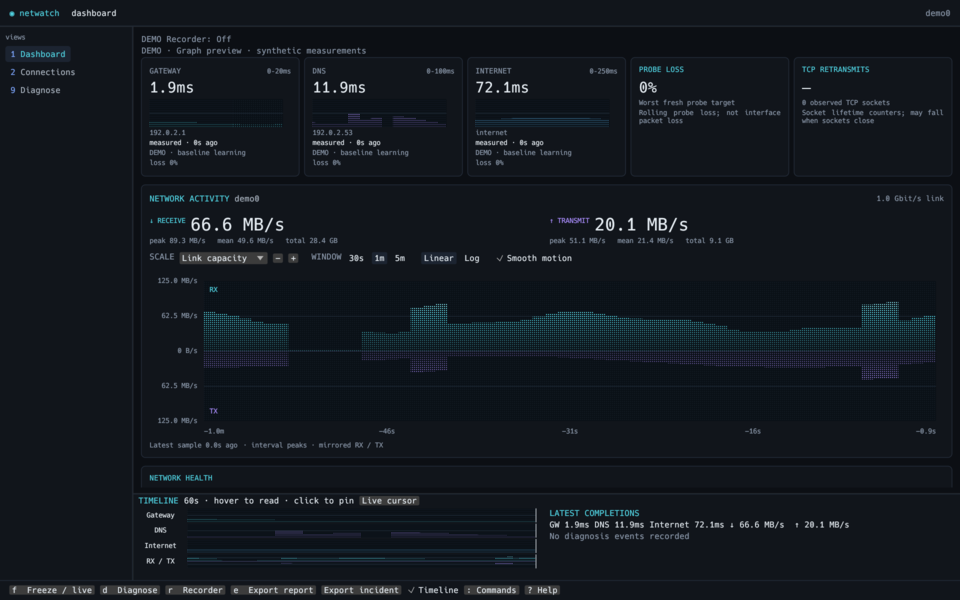
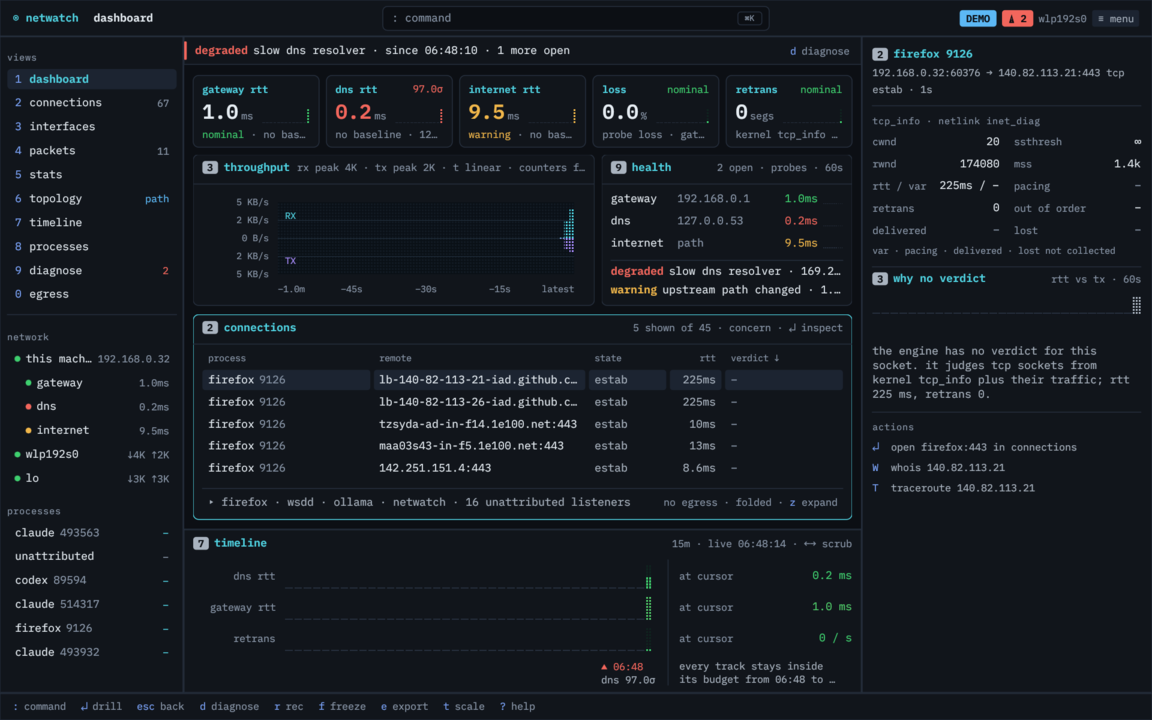
Rewrite README, refresh screenshots, add MIT licence
Claude-Session: https://claude.ai/code/session_013PBFcyeupB6XZ6WnnqAaG8

diff --git a/README.md b/README.md
@@ -1,34 +1,286 @@
-# Netwatch Desktop
+# netwatch desktop
 
-Native egui front end over the Netwatch runtime, collectors, diagnose engine and egress linter. It implements the Workbench shell from the desktop design spec: title bar · navigator · status strip · content + inspector · timeline dock · footer, with sheets over the top and lite and dense views.
+A native desktop app for [netwatch](https://github.com/matthart1983/netwatch). It runs the same collectors, diagnose engine and egress linter as the terminal tool, in a window, with a mouse, a command palette and room to show more than 80 columns can hold.
 
-Requires the sibling `../netwatch` checkout and the same platform capture/build dependencies as Netwatch.
+![Dashboard with the demo scenario](docs/screenshots/dashboard.png)
+
+It is not a remote dashboard. There is no server and no second engine. The app links the `netwatch` crate, starts its runtime on a background thread, and draws what that runtime sees on this machine.
+
+## Contents
+
+- [What you get](#what-you-get)
+- [Building](#building)
+- [Running](#running)
+- [Permissions](#permissions)
+- [The window](#the-window)
+- [Keys](#keys)
+- [The ten tabs](#the-ten-tabs)
+- [Views: full, lite, dense](#views-full-lite-dense)
+- [Sheets](#sheets)
+- [Themes and graphs](#themes-and-graphs)
+- [Settings and saved state](#settings-and-saved-state)
+- [How it is built](#how-it-is-built)
+- [Development](#development)
+- [Known gaps](#known-gaps)
+- [License](#license)
+
+## What you get
+
+- Ten tabs: dashboard, connections, interfaces, packets, stats, topology, timeline, processes, diagnose and egress.
+- Every socket with its owning process and the diagnose engine's verdict (bufferbloat, zero-window, retrans-burst and so on), grouped by process or host, with kernel `tcp_info` in a side inspector.
+- A packet list with a display filter, layered decode, hex, and a stream inspector. Export any filtered view to pcap.
+- Diagnose laid out as issue, probable cause, remediation and the condition that closes it, with a chronology of what happened in what order.
+- Egress policy: learned destinations per process, drift, and the TOML diff before anything is written.
+- A flight recorder you can arm, freeze and export as an incident bundle.
+- Three views of the same running backend. Full is the workbench, lite is a small always-on-top window, dense is four boxes packed with numbers.
+- Eight themes, a btop-style dot graph look (or solid bars), and a command palette that prints the key for everything it runs.
+
+## Building
+
+The app depends on the netwatch crate by path, so check both repositories out side by side:
 
 ```sh
-cargo run                         # live runtime
-cargo run -- --demo               # live runtime + the Diagnose demo scenario and a seeded capture
-cargo run -- --tab packets        # start on a tab (any of the ten names)
-cargo run -- --view lite|dense
-cargo run -- --sheet settings     # settings · recorder · firstrun · palette · help
-cargo run -- --theme paper        # dark paper terminal ocean solarized dracula nord sky
-cargo run -- --app-chrome         # app-drawn window chrome (three dots, edge resize)
-cargo run -- --check-runtime
-cargo run -- --graph-preview      # synthetic snapshot, no collectors
-cargo test
+git clone https://github.com/matthart1983/netwatch
+git clone https://github.com/matthart1983/netwatch-desktop
+cd netwatch-desktop
+cargo build --release
 ```
 
-## Screens
+You need a recent stable Rust toolchain and the same system libraries netwatch needs, plus what eframe needs to open a window.
 
-`1` dashboard · `2` connections · `3` interfaces · `4` packets + decode · `5` stats · `6` topology · `7` timeline · `8` processes · `9` diagnose · `0` egress. Each tab's keys are in its footer; clicking a hint does the same as pressing it.
+On Fedora:
 
-Global keys: `1–9 0` tabs · `:` or ctrl-K palette (`/` filter, `>` jump, `@` host or process) · `↵` drill / `esc` back (breadcrumb) · `p` or space pause the display · `R` arm, `F` freeze, `E` recorder & export sheet · `V` cycle full → lite → dense, `L` lite · `,` settings · `?` help · `t` graph scale on graph tabs, otherwise theme · `q` quit. Ctrl `+` / `−` zooms the interface (dense: text size).
+```sh
+sudo dnf install libpcap-devel libxkbcommon-devel wayland-devel mesa-libGL-devel
+```
 
-Every chart draws in one look: btop dot cells or solid bars, with or without the magnitude fade. Toggle it from **☰ menu** in the title bar (also in dense), the palette (`graphs: switch to …`), or the settings sheet; it is saved as `graph_style` / `graph_fade` in the netwatch config.
+On Debian or Ubuntu:
 
-Clicking a navigator node (gateway, dns, an interface, a process) filters the current tab and adds it to the breadcrumb. Tab, view, theme, zoom, dock height, per-tab control choices and the lite window persist in `~/.config/netwatch/desktop.toml` (`NETWATCH_DESKTOP_PREFS` overrides the path; `--screenshot` and `--graph-preview` runs neither read nor write it).
+```sh
+sudo apt install libpcap-dev libxkbcommon-dev libwayland-dev libgl1-mesa-dev
+```
 
-Pause pins the displayed snapshot; collectors, recording and exports continue. Writes (exports, policy promotions, config saves) report their path in the footer toast. Capture without permission degrades to interface counters and kernel TCP metrics, and the packets tab shows the grant command for the running executable. Active health checks send network probes.
+On macOS, the Xcode command line tools are enough.
 
-See [design decisions and remaining scope](docs/DESIGN-NOTES.md), [graphs](docs/GRAPHS.md) and [dense view](docs/DENSE.md).
+This build turns off netwatch's eBPF attribution (`default-features = false`), so there is no kernel-capability dependency beyond packet capture.
 
-Fonts: IBM Plex Mono/Sans and Adwaita Mono (symbol fallback), bundled under `assets/fonts` with their OFL licences.
+## Running
+
+```sh
+./target/release/netwatch-desktop
+```
+
+Useful flags:
+
+| flag | what it does |
+|---|---|
+| `--demo` | Runs the real runtime with the diagnose demo scenario and a seeded packet capture. Good for seeing every screen populated. |
+| `--tab <name>` | Opens on a tab: `dashboard`, `connections`, `interfaces`, `packets`, `stats`, `topology`, `timeline`, `processes`, `diagnose`, `egress`. |
+| `--view full\|lite\|dense` | Starts in a view. |
+| `--zoom 1-4` | In dense view, opens with one box zoomed. |
+| `--sheet <name>` | Opens a sheet: `settings`, `recorder`, `firstrun`, `palette`, `help`. |
+| `--theme <name>` | Starts with a palette (see [themes](#themes-and-graphs)). |
+| `--window-size WxH` | Sets the initial window size in logical pixels. |
+| `--app-chrome` | Draws the app's own title bar and window controls instead of the system's. |
+| `--graph-preview` | Runs on a synthetic snapshot with no collectors. Used for graph and layout checks. |
+| `--check-runtime` | Starts the runtime headless, prints interface, capture, diagnose coverage, socket and PID counts and the capability report, then exits. |
+| `--screenshot <path>` | Saves a PNG of the window after about three seconds and exits. Runs with this flag neither read nor write saved layout. |
+
+`--check-runtime` is the quickest way to find out what the app can see on a machine:
+
+```
+interface: wlp192s0
+counters only · Capture failed: libpcap error: ... CAP_NET_RAW may be required
+no visible findings · 12/25 rule inputs available · 0 learning · 13 unavailable
+107 connections · 78 with a pid · 61 kernel TCP records
+```
+
+## Permissions
+
+Without packet capture the app still works. You get interface counters, the socket table with process attribution for processes your user can inspect, kernel TCP metrics, and active probes. Per-flow rates, the packet list, TLS and DNS decode, and handshake timing need capture.
+
+On Linux, give the binary the raw-socket capability once. It attaches to the file, so run it again after every rebuild:
+
+```sh
+sudo setcap cap_net_raw+eip ./target/release/netwatch-desktop
+```
+
+The first-run sheet shows what is ready, what needs a grant, and the exact command for the running executable. It opens on first launch and again if a capability that was ready goes missing. Press `↵` to continue without capture.
+
+netwatch confines its collector workers with Landlock. Socket ownership is read by a small thread that starts before confinement and only reads kernel `/proc` tables, so attribution works with the sandbox on. Sockets owned by other users' processes (root daemons) stay unattributed unless you run with more privilege.
+
+Active health checks send DNS, reachability and STUN probes. Collection and analysis stay on the machine. Online GeoIP lookups and AI insights are off by default and say what they send before they send it.
+
+## The window
+
+![Connections grouped by process](docs/screenshots/connections.png)
+
+Every tab shares one frame:
+
+- The title bar has the breadcrumb (for example `connections › claude:443`), a command field that opens the palette, chips for recorder state, pause, open issues and egress drift, the capture interface, and the menu.
+- The navigator on the left lists the ten tabs with live badges (socket count, packet rate, open issue count, drift). Under it is a network tree (this machine, gateway, dns, internet, interfaces) and the top processes. Clicking a node filters the current tab and adds it to the breadcrumb. `esc` removes it.
+- A status strip appears when an issue is open. It reads from the same issue list as the diagnose tab and disappears when things are healthy.
+- The inspector on the right follows the selection on tabs that have one (dashboard, connections, packets, processes, egress).
+- The timeline dock sits under the dashboard, connections and diagnose.
+- The footer lists the keys the current tab responds to. Every hint is clickable and does the same thing as the key. Results of writes (exports, policy changes, config saves) show at the right with their path.
+
+Below 1180 pixels wide the navigator shrinks to a rail of digits. Below 1000 the inspector opens as a sheet on `↵`.
+
+## Keys
+
+Global keys work on every tab unless a sheet is open.
+
+| key | action |
+|---|---|
+| `1`-`9`, `0` | switch tab |
+| `:` or `ctrl-k` | command palette |
+| `↵` / `esc` | drill into the selection / back one breadcrumb level |
+| `↑` `↓` | move the selection |
+| `tab` | move focus between panels |
+| `p` or `space` | pause or resume the display (collectors and recording keep running) |
+| `R` | arm or disarm the flight recorder |
+| `F` | freeze the recorder |
+| `E` | open the recorder and export sheet |
+| `V` | cycle full, lite, dense |
+| `L` | lite view |
+| `t` | graph scale on graph tabs, cycles theme elsewhere |
+| `,` | settings |
+| `?` | every key for the current tab |
+| `q` | quit |
+| `ctrl +` / `ctrl -` / `ctrl 0` | zoom the interface (in dense view, the text size) |
+
+## The ten tabs
+
+Each tab lists its own keys in the footer and in `?`.
+
+**1 dashboard.** Five stat cards (gateway, dns and internet rtt, probe loss, retransmits) with sparklines and baselines, the throughput graph, health rows with the engine's findings, the top connections by concern, and the timeline dock. `↵` opens the selected socket in connections, `d` diagnose, `r` recorder, `f` freeze, `e` export the diagnose report, `t` linear or log scale.
+
+**2 connections.** Every socket with process and PID, remote host (resolved when known), application protocol, state, rates, kernel rtt, retransmits, age, verdict and a 60 second rtt history. Control strip for show (concern, all, established, listen, time-wait) and group (none, host, process). Listeners and system daemons with no egress fold into one line (`z`). With grouping on, `space` folds the group under the cursor, `←` `→` fold and unfold, `Z` folds all, and `↑` `↓` also stop on group headers. `/` filters, `s` sorts, `g` groups, `↵` opens packets for the socket, `p` its process, `W` whois, `T` traceroute, `e` exports JSON and CSV.
+
+**3 interfaces.** A table sized to the interface count with role, link speed, rates, a saturation meter, errors, drops and history. The detail panel has addresses, MTU, session counters and a one-line finding. `i` moves capture to the selected interface.
+
+![Packets with decode and stream inspector](docs/screenshots/packets.png)
+
+**4 packets.** The capture strip (live or stopped, ring size, shown, drops, packets per second, BPF filter) and a virtualized list with an expert gutter. The title-bar field becomes the display filter with a live match count, using netwatch's filter grammar (`tcp`, `dns`, `host 10.0.0.1`, `stream 7`, `sni:github`, `decrypted:true`, `and`, `or`, `not`). Under the list is a layered decode (frame, ethernet, ip, tcp or udp, tls or quic, l7) beside hex that highlights the selected layer's bytes. The inspector summarises the stream: 5-tuple, TLS version and ALPN, bytes each way, retransmits, handshake timing. Keys: `c` capture, `b` BPF, `f` follow, `m` bookmark, `n` / `N` next finding, `x` findings only, `h` hex or text, `w` pcap, `j` pivot on JA4, `i` interface.
+
+**5 stats.** Counters for packets, bytes, flows and protocol shares; a protocol breakdown with l7 nested under l4; top processes and remotes; session throughput; and an rtt distribution on a log axis with p50, p90 and p99. `[` `]` window, `u` bytes or frames.
+
+![Topology with a traced path](docs/screenshots/topology.png)
+
+**6 topology.** This machine, gateway, DNS servers and on-link peers; each target's path drawn as chained hop boxes (changed hops highlighted, silent hops dashed); and a hop table with loss, last, p50, p95, jitter and distribution. A hop that doesn't answer while later hops do reads as a silent hop, not loss. `T` traces the target or selected hop, `W` whois, `↵` connections for that host.
+
+**7 timeline.** DNS, gateway and internet rtt, retransmits and throughput on one time axis with a shared cursor, event markers, an events table, and every track's value at the cursor with a plain statement of what moved first. `←` `→` scrub, `t` window (1m to 1h), `k` kinds, `esc` back to live.
+
+**8 processes.** Per-process connections, rates, rtt p50, retransmits and worst verdict. The inspector reads command line, cgroup, user, threads and file descriptors from `/proc`, lists destinations with their egress verdicts, and plots tx against rtt.
+
+![Diagnose](docs/screenshots/diagnose.png)
+
+**9 diagnose.** An engine strip (inputs available, baselines ready or learning, rules live) so an empty issue list can be read correctly. Issues in severity order, the chronology, and a detail pane in report order: evidence, ranked probable causes with each check written out, remediation steps, and the condition that closes the issue. `↵` applies a fix where netwatch can (simulated in demo mode, never applied by a live desktop session), `a` acknowledges, `m` mutes for an hour, `o` writes `report.md`, `y` copies.
+
+**0 egress.** Learned destinations per process as a foldable tree with match type (SNI, IP, ASN, ECH), bytes, first and last seen, activity and policy verdict. The inspector shows what was seen and which rule line would admit it. `a` allows one destination, `d` keeps warning for the re-warn interval, `↵` promotes the selected process, `P` promotes all, `w` writes. The policy diff shows the TOML before it is written. A group- or world-writable policy file is refused with the `chmod` to fix it.
+
+## Views: full, lite, dense
+
+All three views run on the same backend. Switching views never restarts collectors, and the selected socket, pause state and graph settings carry across.
+
+![Dense view](docs/screenshots/dense.png)
+
+**Dense** packs four boxes: mirrored throughput with session totals, interfaces, health with rtt budget meters, and connections with the selected socket's kernel state above the table. `1`-`4` zoom a box. In the connections box `g` cycles grouping, `space` and `Z` fold groups. Text size is separate from the interface zoom (`ctrl +` / `ctrl -`, or the menu). See [docs/DENSE.md](docs/DENSE.md).
+
+<img src="docs/screenshots/lite.png" alt="Lite view" width="540">
+
+**Lite** is a small window (minimum 720 by 420) with throughput, reachability and top talkers. It remembers its size and can stay on top.
+
+## Sheets
+
+Sheets open over the current screen, which keeps updating underneath. `esc` closes any of them.
+
+![Command palette](docs/screenshots/palette.png)
+
+- **Command palette** (`:`). Fuzzy search over commands, tab jumps, packet display filters and entities (hosts and processes). Every row shows the key that does the same thing. `/` narrows to filters, `>` to jumps, `@` to hosts and processes. `tab` completes, `↵` runs. Recent commands come first.
+- **Settings** (`,`). The netwatch `config.toml` grouped as appearance, refresh and capture, GeoIP, alerts, AI insights and security. `←` `→` cycle values, `↵` edits text, `S` saves. Invalid values are marked on the row. Below the settings is the live capability report.
+- **Flight recorder** (`E`). Armed, frozen and exported states with who froze it, packet density over the five-minute ring, the files that go into the bundle, and where they land. `R` arms, `F` freezes, `E` exports.
+- **First run.** What works now, what needs a grant, and the command for this platform.
+- **Help** (`?`). Global keys and the current tab's keys.
+
+## Themes and graphs
+
+Themes: `dark` and `paper` from the design spec, plus the six netwatch TUI themes `terminal`, `ocean`, `solarized`, `dracula`, `nord` and `sky`, mapped slot for slot. Pick one from the menu, the palette, settings, or `t` on a tab without a graph.
+
+Charts have two looks. The default is btop-style dot cells lit from the baseline. The other is solid bars. Either can use a magnitude fade that runs from dim at the baseline to the full series colour at the top. The switch applies to every chart in the app: throughput plots, sparklines, timeline tracks, histograms and share bars. Toggle it from the menu at the top right, the palette (`graphs: switch to bars`), or settings. It is saved as `graph_style` (`dots` or `bars`) and `graph_fade` in the netwatch config, so the TUI follows the same setting.
+
+The UI uses IBM Plex Mono throughout and IBM Plex Sans for first-run prose, with Adwaita Mono as a fallback for symbols Plex lacks. All three are bundled.
+
+## Settings and saved state
+
+Two files:
+
+- `~/.config/netwatch/config.toml` is netwatch's own config, shared with the TUI: theme, graph style, refresh rate, capture interface, BPF filter, GeoIP, alerts, AI insights, sandbox mode and so on. Edit it with the settings sheet.
+- `~/.config/netwatch/desktop.toml` holds the desktop's layout: the last tab and view, theme, interface zoom, dense text size and grouping, dock height, the lite window size, per-tab choices (sort, grouping, filters, bookmarks) and recent palette commands. Set `NETWATCH_DESKTOP_PREFS` to use another path.
+
+Exports go to `~/.cache/netwatch/exports/`. The egress policy lives at `~/.config/netwatch/egress-policy.toml`.
+
+## How it is built
+
+The app uses egui and eframe for the UI. It depends on netwatch as a library.
+
+```
+netwatch-desktop
+├── backend.rs      runtime thread: App, tick, Snapshot, Command → ActionResult
+├── shell.rs        the Screen and Sheet traits, keys, hints, breadcrumb, filters
+├── app.rs          the frame: title bar, navigator, strip, inspector, dock, footer, key routing
+├── ui_kit.rs       panels, control strips, tables, pills, key hints, meters, bars
+├── theme.rs        runtime palettes, graph look, fonts
+├── graphs.rs       cached-texture throughput and latency graphs
+├── screens/        one module per tab
+├── sheets/         settings, first run, recorder, palette, help
+├── dense.rs        dense view
+└── lite.rs         lite view
+```
+
+The runtime thread owns netwatch's `App`. Once per tick it copies what the screens read into an immutable `Snapshot`. Large append-only stores, the packet ring and stream tracker, cross as shared handles so 5,000 packets are not cloned every second. Screens never touch `App`. They queue a `Command` (export, capture, BPF, whois, traceroute, egress promote, diagnose apply, config save), and each command returns one result that the footer shows.
+
+A screen implements `Screen`: `draw`, `hints` and `key`, plus optional `inspector`, `navigator`, `status`, `command_field`, `palette`, `save` and `restore`. Keys go to an open sheet first, then global digits and `:`, then the screen, then the shell's global keys. Footer clicks go through the same path.
+
+The large graphs pre-render their capacity grid and lit gradient as GPU textures once per size, DPI, palette and graph look. A frame only moves the measurement mask. See [docs/GRAPHS.md](docs/GRAPHS.md). Smaller charts batch their bars into one mesh per chart.
+
+Where netwatch doesn't collect something a design calls for, the slot stays and the panel says why. No values are made up.
+
+## Development
+
+```sh
+cargo test
+cargo clippy --all-targets
+cargo fmt
+```
+
+Visual checks use the screenshot flag:
+
+```sh
+./target/debug/netwatch-desktop --demo --tab packets --window-size 1440x900 --screenshot /tmp/packets.png
+./target/debug/netwatch-desktop --demo --view dense --screenshot /tmp/dense.png
+./target/debug/netwatch-desktop --demo --sheet settings --screenshot /tmp/settings.png
+```
+
+Opt-in performance checks:
+
+```sh
+cargo test dense::tests::dense_frame_cost_and_capacity_cache -- --ignored --nocapture
+cargo test cached_graph_frame_cost -- --ignored --nocapture
+```
+
+Design decisions and the reasoning behind them are in [docs/DESIGN-NOTES.md](docs/DESIGN-NOTES.md).
+
+## Known gaps
+
+- netwatch doesn't collect ASN per traceroute hop, interface driver, qdisc or offloads, per-interface gateway and DNS, TLS version per packet, or `tcp_info` pacing, delivered and lost. The screens show `–` for these and say so.
+- Traceroute runs one target at a time and keeps no history. A changed hop only shows after a retrace in the same session.
+- Timeline retransmission and recorder history start when the app starts.
+- Right-click selects but doesn't open an actions menu, and table columns can't be reordered or resized.
+- App-drawn window chrome is opt-in until edge resizing is checked on more compositors.
+- The path dependency on `../netwatch` means a fresh clone only builds next to a netwatch checkout.
+- `graphs::tests::fixed_samples_are_two_physical_pixels_at_multiple_sizes_and_dpi` fails and needs fixing.
+
+## License
+
+MIT. IBM Plex and Adwaita Mono are under the SIL Open Font License; their licence files are in `assets/fonts/`.
